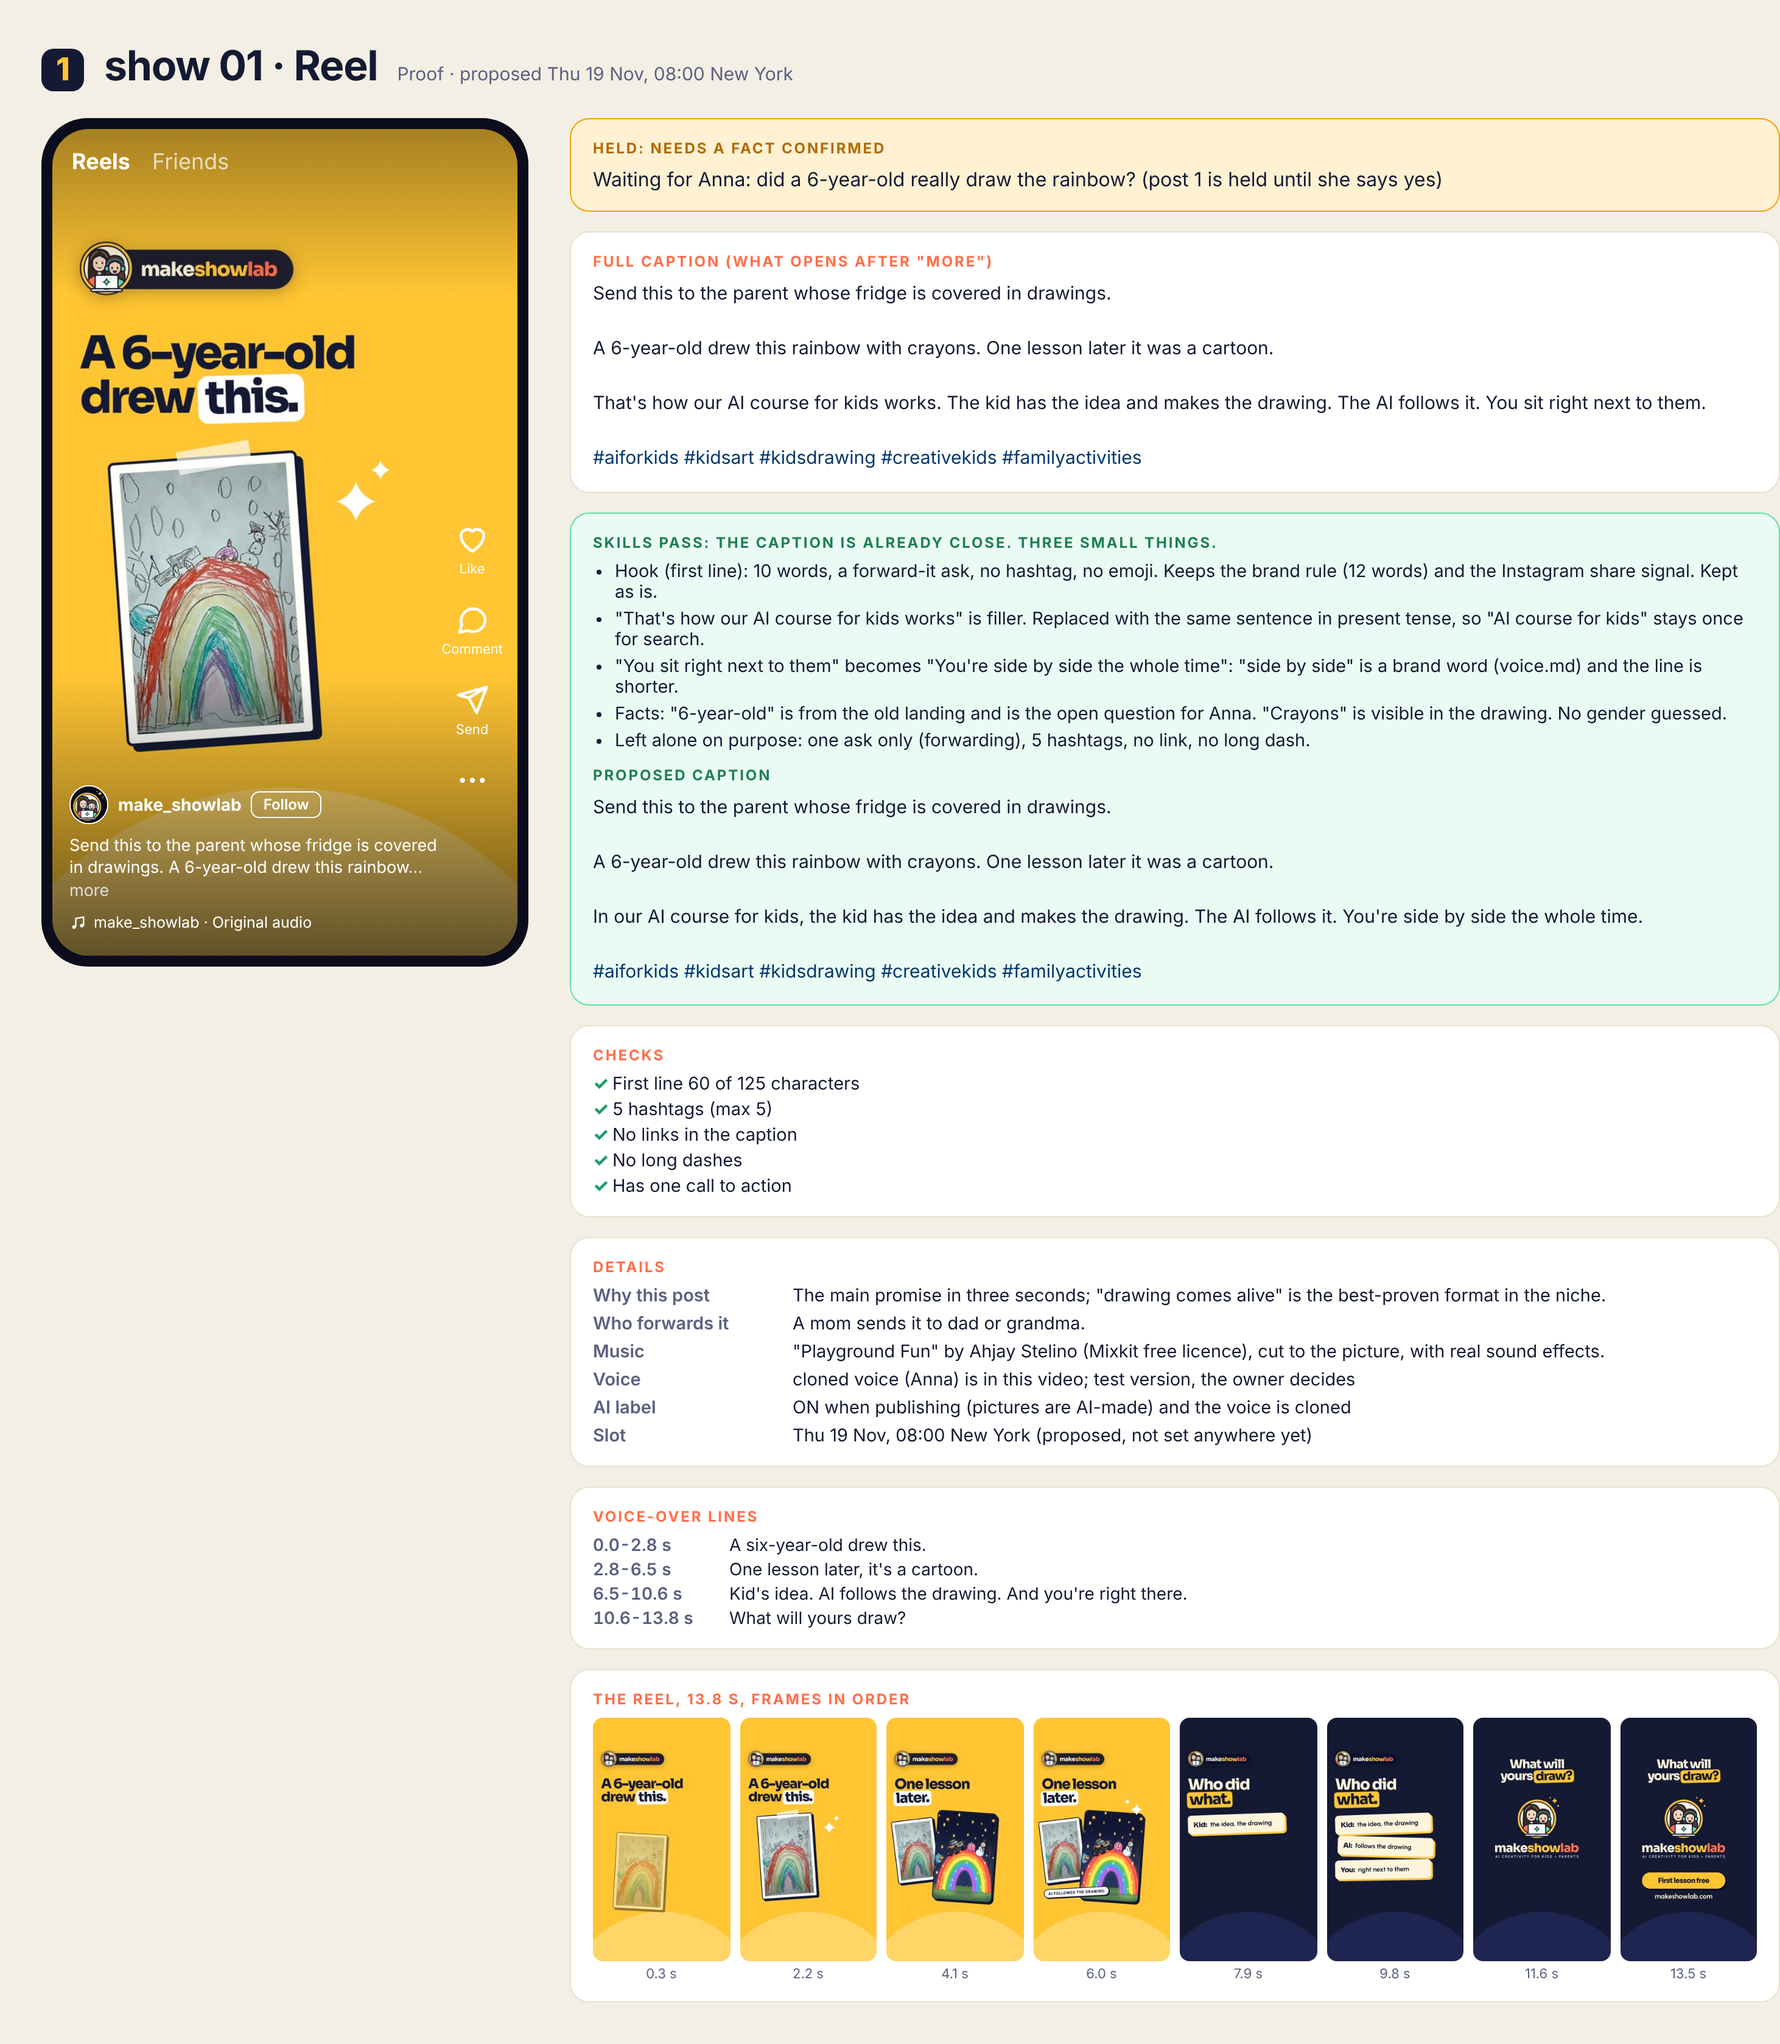
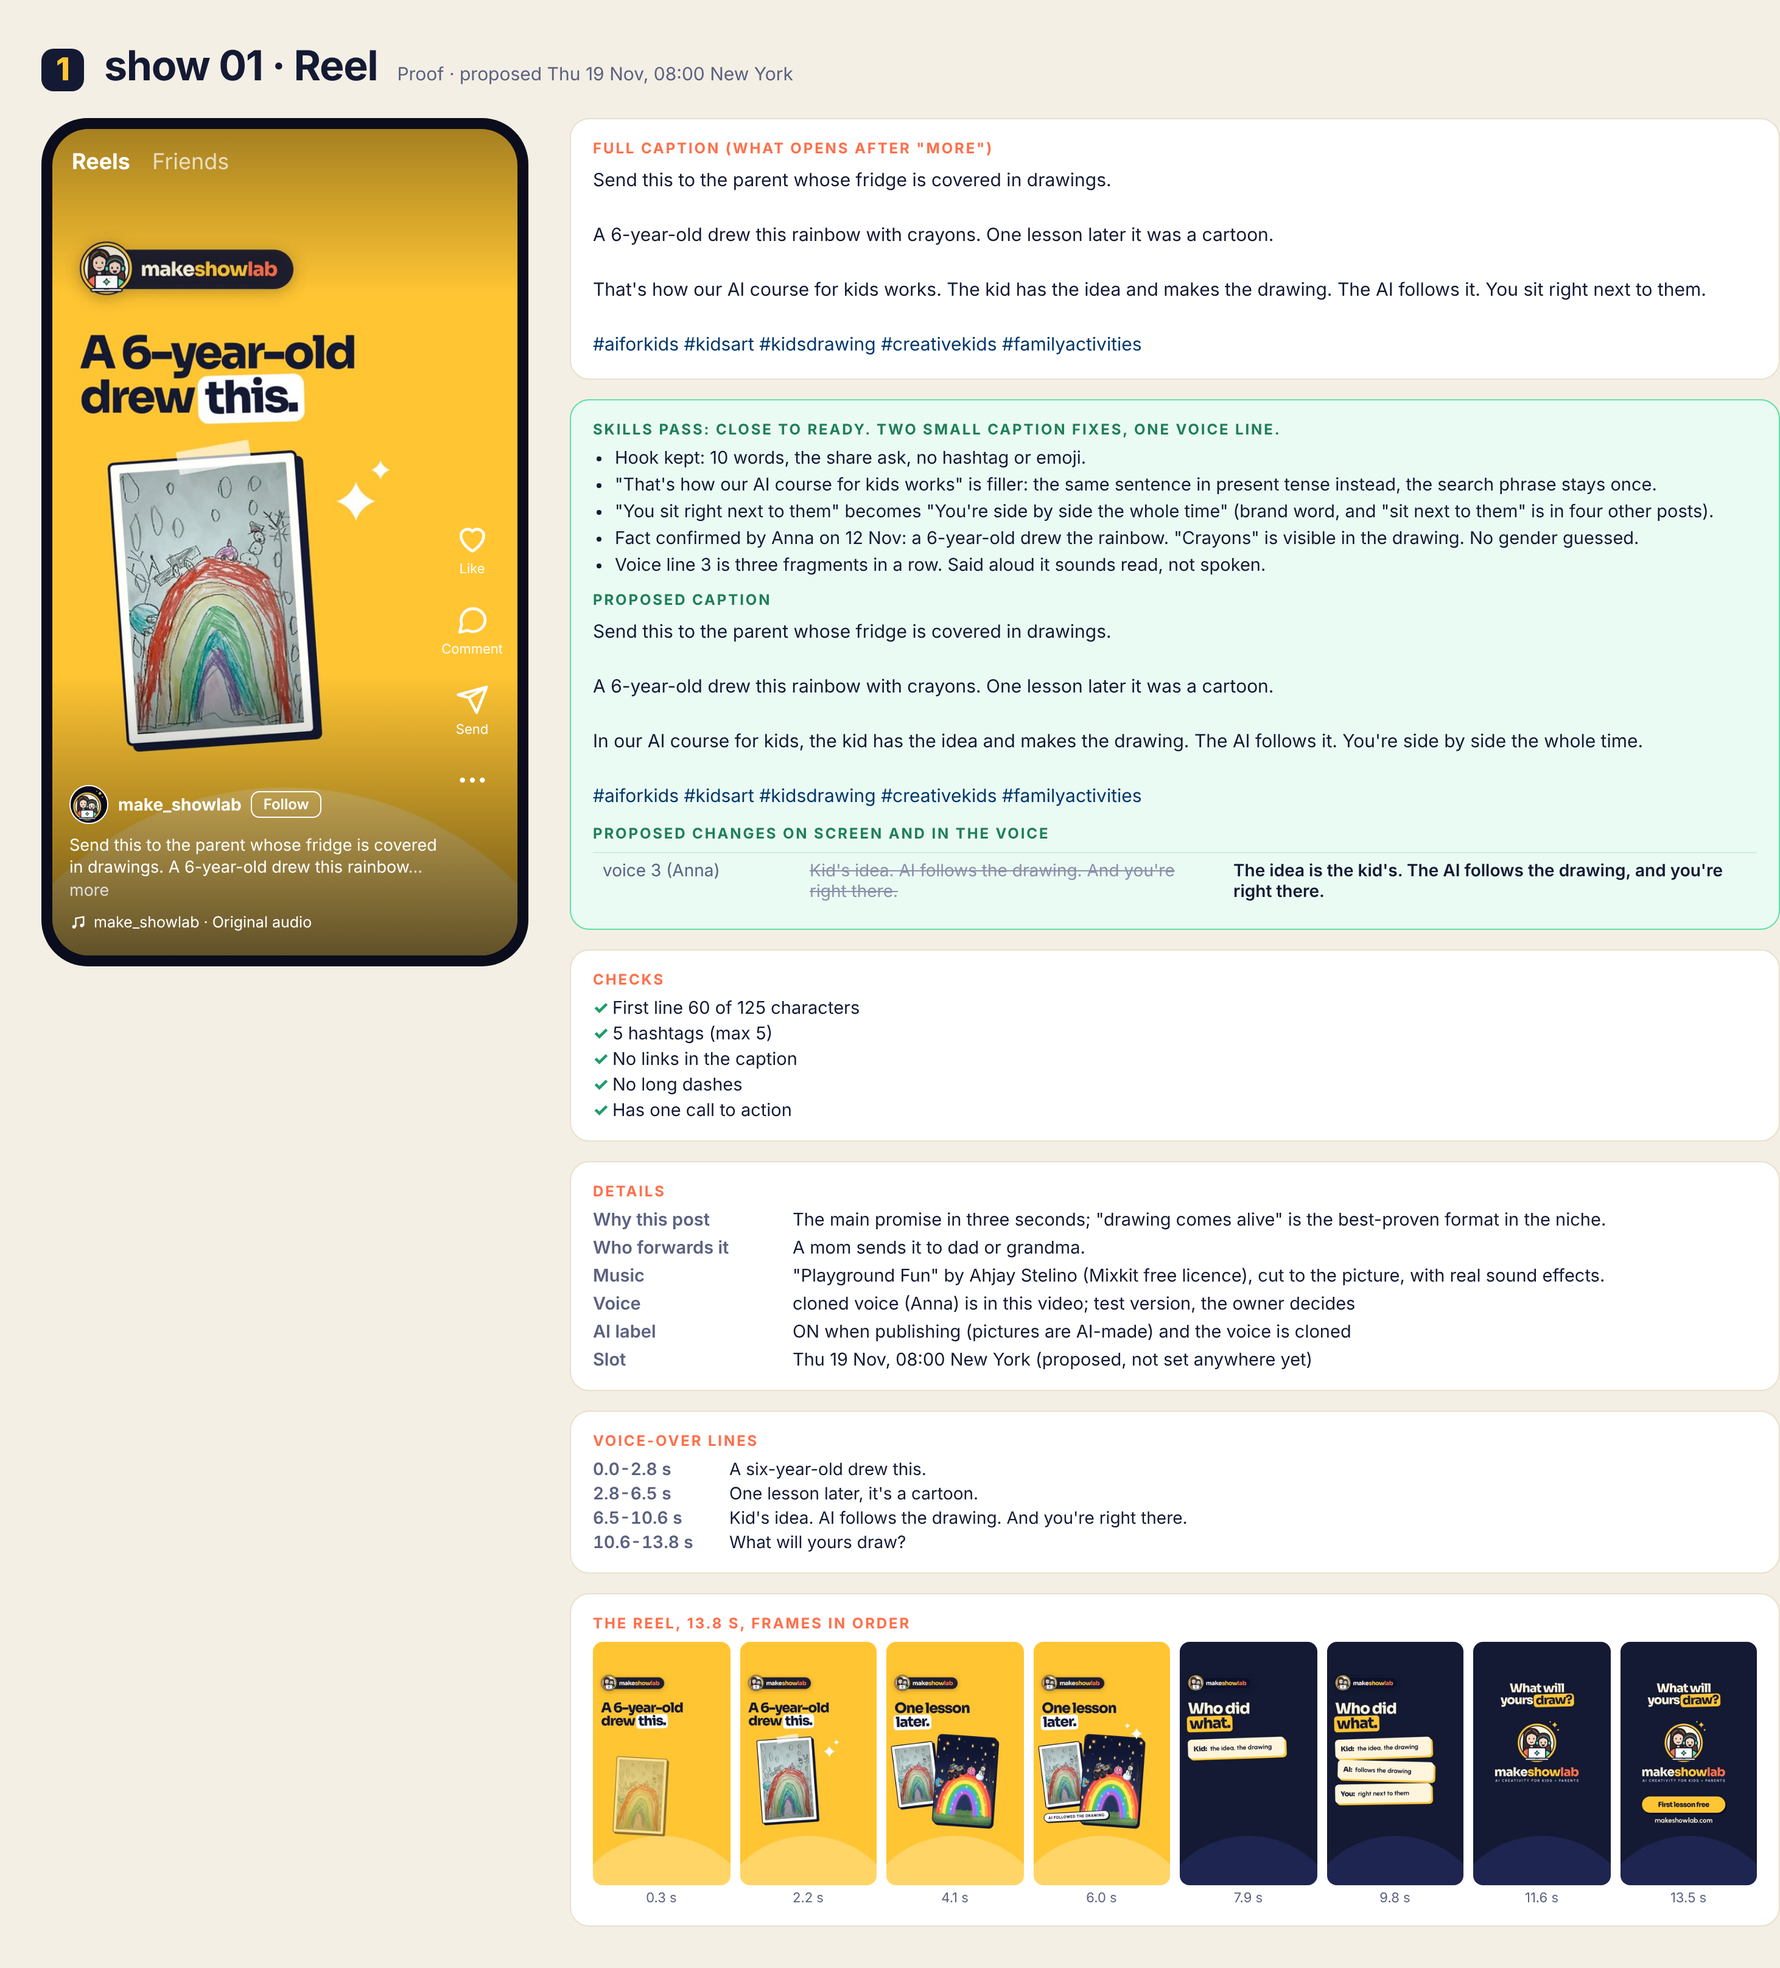
Instagram desk: skills pass over every text of the ten posts, audit page, post 1 fact confirmed
Claude-Session: https://claude.ai/code/session_01DtGyjSqHdVpz2CXmqnfjKT

Changed region(s): [[0.0311, 0.0312, 1.0, 0.9682], [0.249, 0.2498, 0.2801, 0.3748]]

diff --git a/social/desks/instagram.md b/social/desks/instagram.md
@@ -13,6 +13,7 @@
 - списки: все креативы `INSTAGRAM.md`, ролики с моушен-графикой `MOTION.md`; архив со всеми файлами собирает `preview/make_page.py` в `out/instagram-creatives.zip`
 - вид профиля на белом фоне: `out/instagram-profile.png` (снимает `preview/shot.cjs`, его запускает `preview/make_page.py`)
 - макеты для проверки: на каждый пост одна картинка «как в приложении Instagram» со всем вокруг (подпись, проверки, музыка, голос, слот, что не подтверждено): `node social/concept/review/build.mjs` → `out/review/NN-<id>.png`
+- проверка всех текстов по скилам маркетинга и соцсетей (что звучит как ИИ, где теряется смысл): `social/concept/review/pass.mjs`, страница `node social/concept/review/audit.mjs` → `out/review/audit.html`; все тексты постов с линтером: `node social/concept/review/texts.mjs`
 - черновик графика, 3 поста в день: `social/concept/review/SCHEDULE.md` (в Metricool ничего не стоит)
 - голос: Аня и Камилла записывают реплики сами; листы `out/voice-brief-anna.pdf` и `out/voice-brief-kamilla.pdf`, инструменты нарезки и сведения готовы (`sound/VOICEOVER.md`)
 
@@ -32,7 +33,9 @@ social/concept/sound/build.sh 07   # звук (нужны записи и нав
 
 ## Что ждёт решения владельца
 - график 30 постов в неделю: хватает 10 готовых постов на 3 дня, нужно решить, как закрыть остальные 20 в неделю (новая партия или пересборки готового)
-- согласие Ани на клонирование голоса Камиллы (она ребёнок, без согласия матери голос не клонируем и не публикуем)
+- утвердить правки текстов по проверке (`out/review/audit.html`); правки реплик голоса меняют `sound/VOICEOVER.md` (зона общего диалога), только с «ок» владельца
+- пост 4: Аня подтверждает историю «7:02 → 7:41» про игру Камиллы
+- реплики длиннее сцен: пост 2 сцена 5 (на 0,5 с), пост 8 сцена 3 (на 1,3 с)
 - утвердить 10 постов
 - Аня и Камилла записывают голос по листам и присылают файлы; потом собираем ролики с голосом и владелец утверждает
 - значок бренда в правом верхнем углу плиток попадает под значки Instagram (закреп, ролик, карусель): перенести его на всех десяти обложках?
@@ -50,3 +53,4 @@ social/concept/sound/build.sh 07   # звук (нужны записи и нав
 - 11.11.2026: проба ролика №5 с голосом Ани; в макете профиля закрепы отмечены в правом верхнем углу, как в приложении.
 - 12.11.2026: проба с клонированным голосом отклонена владельцем («нет жизни»). Решение: живая запись Ани и Камиллы. Готовы листы для записи и нарезка записей в реплики.
 - 12.11.2026: владелец прислал образцы голоса Ани и Камиллы (mp3, лежат в `social/media/voice/`, в git не идут). Клон Ани проверен на ролике 05, ушей владельца ещё ждёт. Показ постов теперь картинками-макетами, график 3 поста в день в черновике.
+- 12.11.2026: Аня согласна на клон голоса Камиллы (передал владелец). Голоса обоих владельцу нравятся. Озвучены 01, 05, 06, 07; у 02 и 08 реплики длиннее сцен. Аня подтвердила: радугу нарисовал ребёнок 6 лет (пост 1 больше не ждёт; `social/brand/facts.md` правит общий диалог). Проверка всех текстов десяти постов по скилам, предложения ждут «ок».
